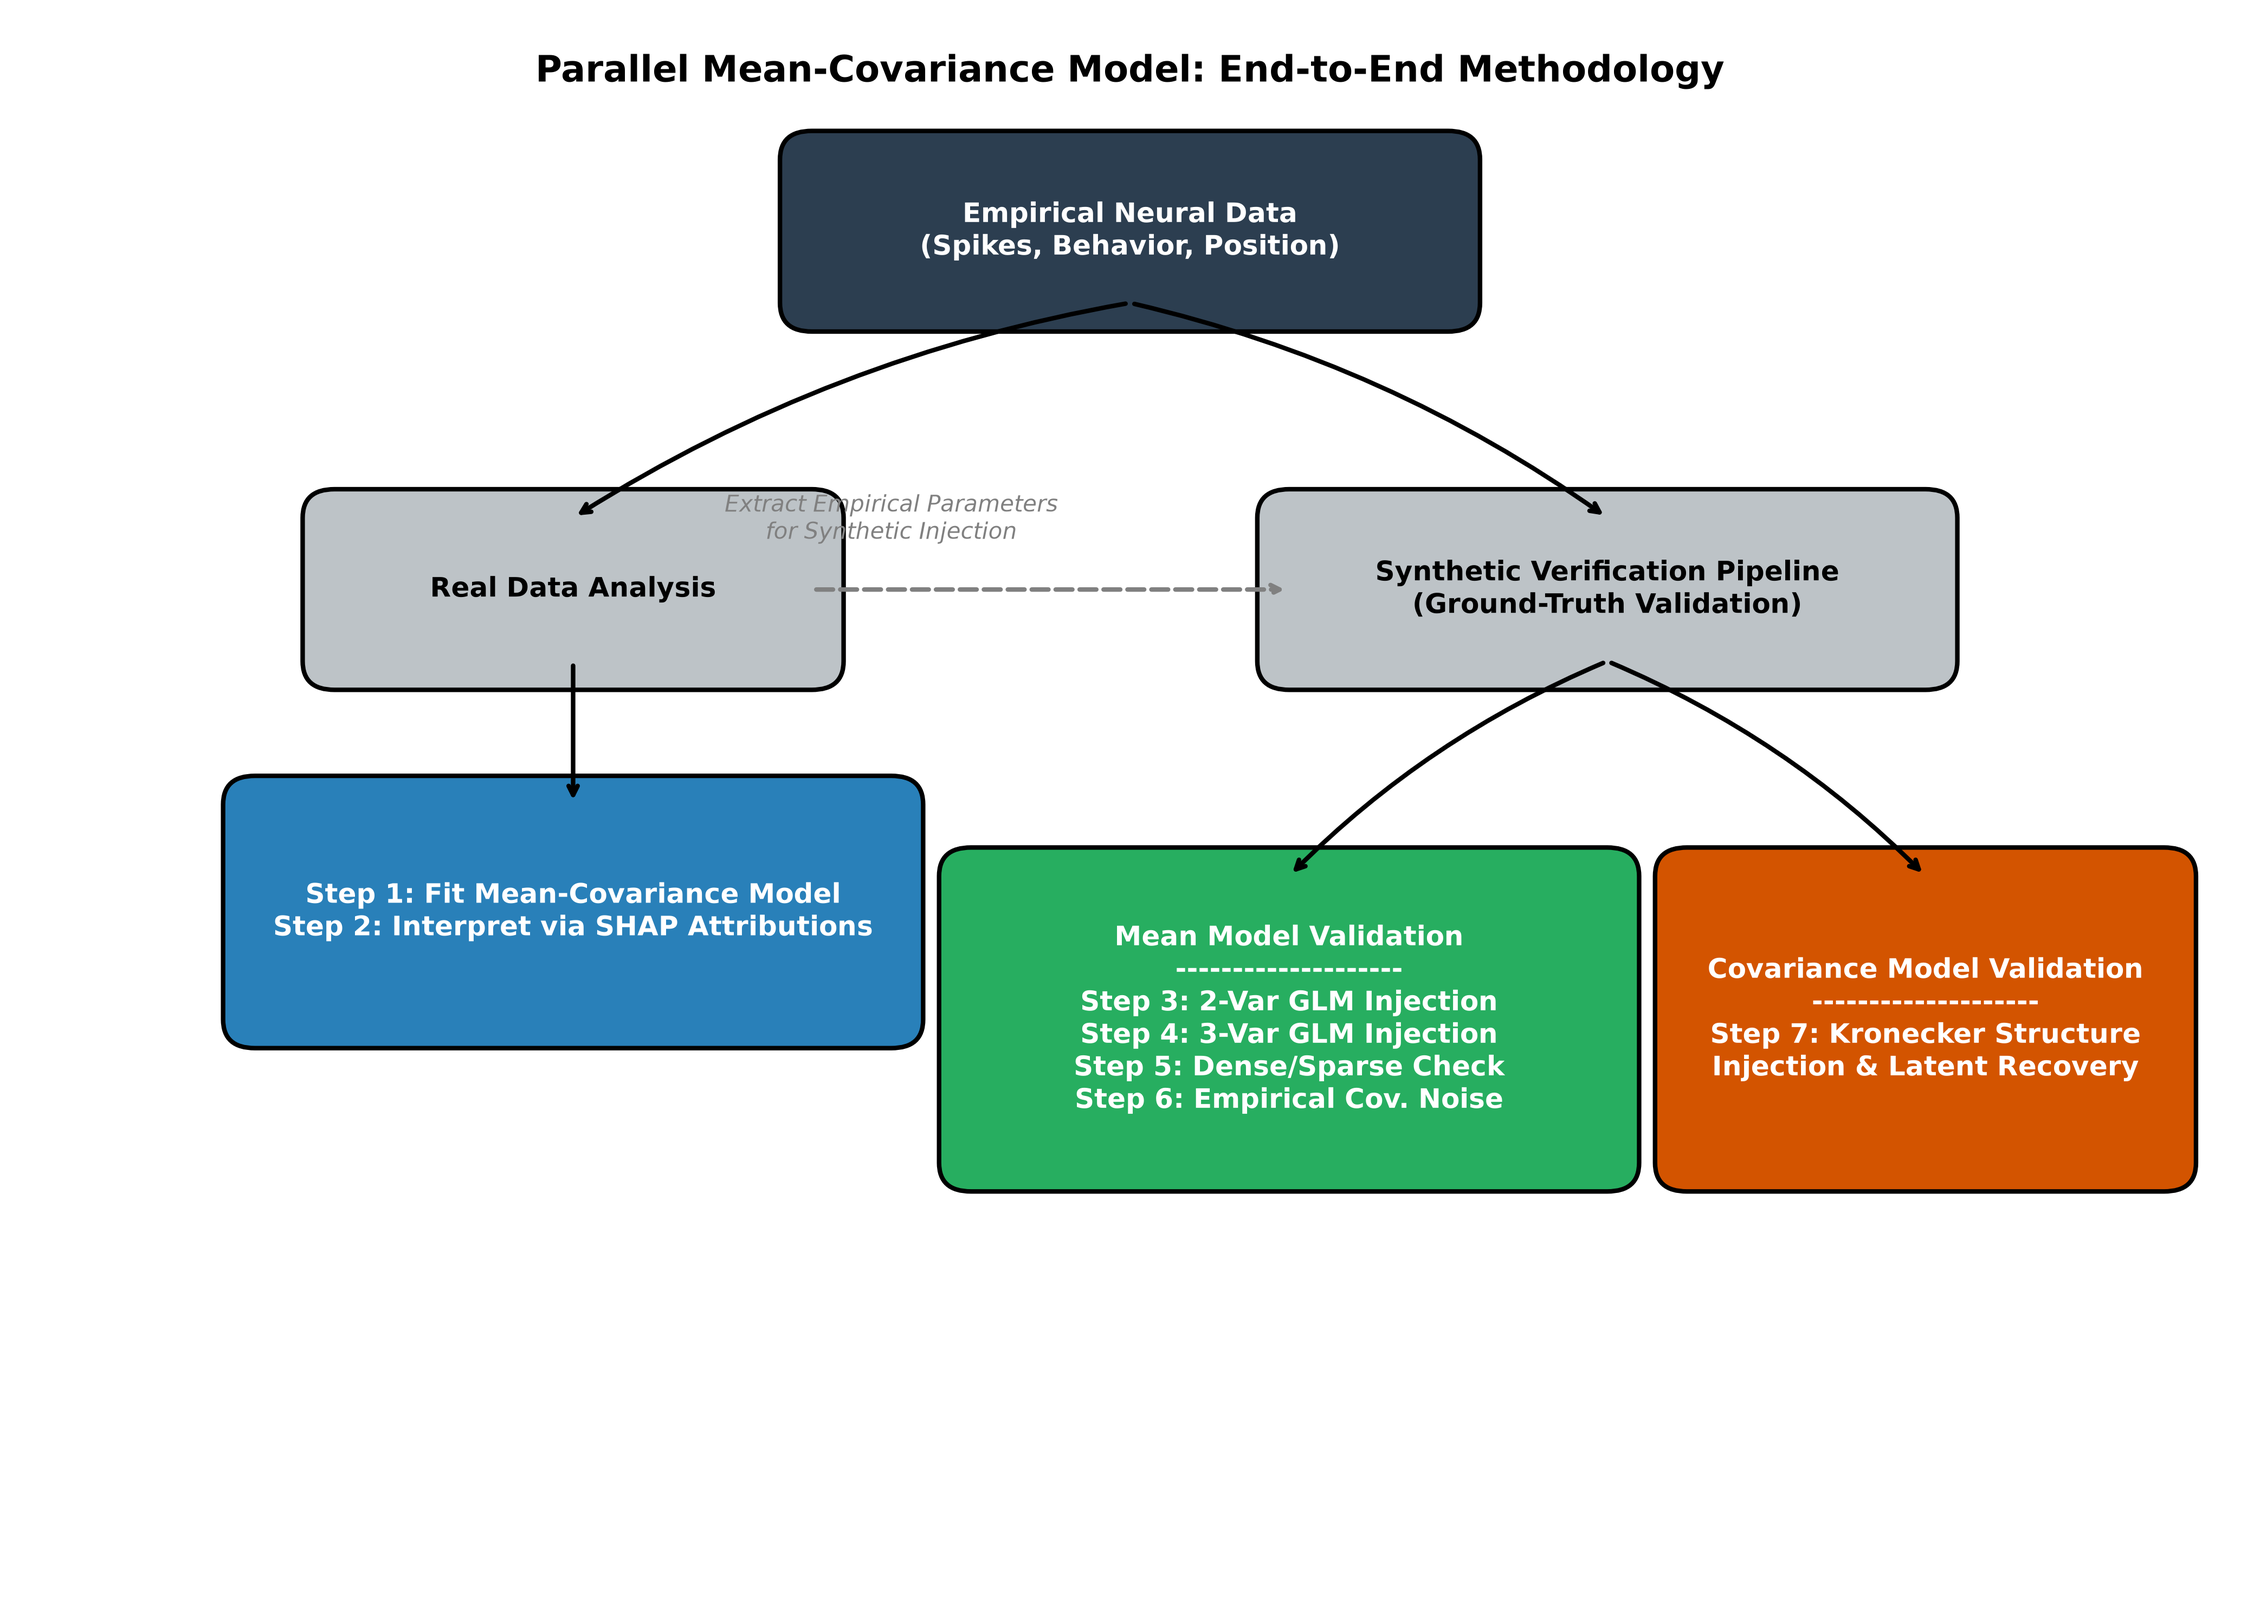
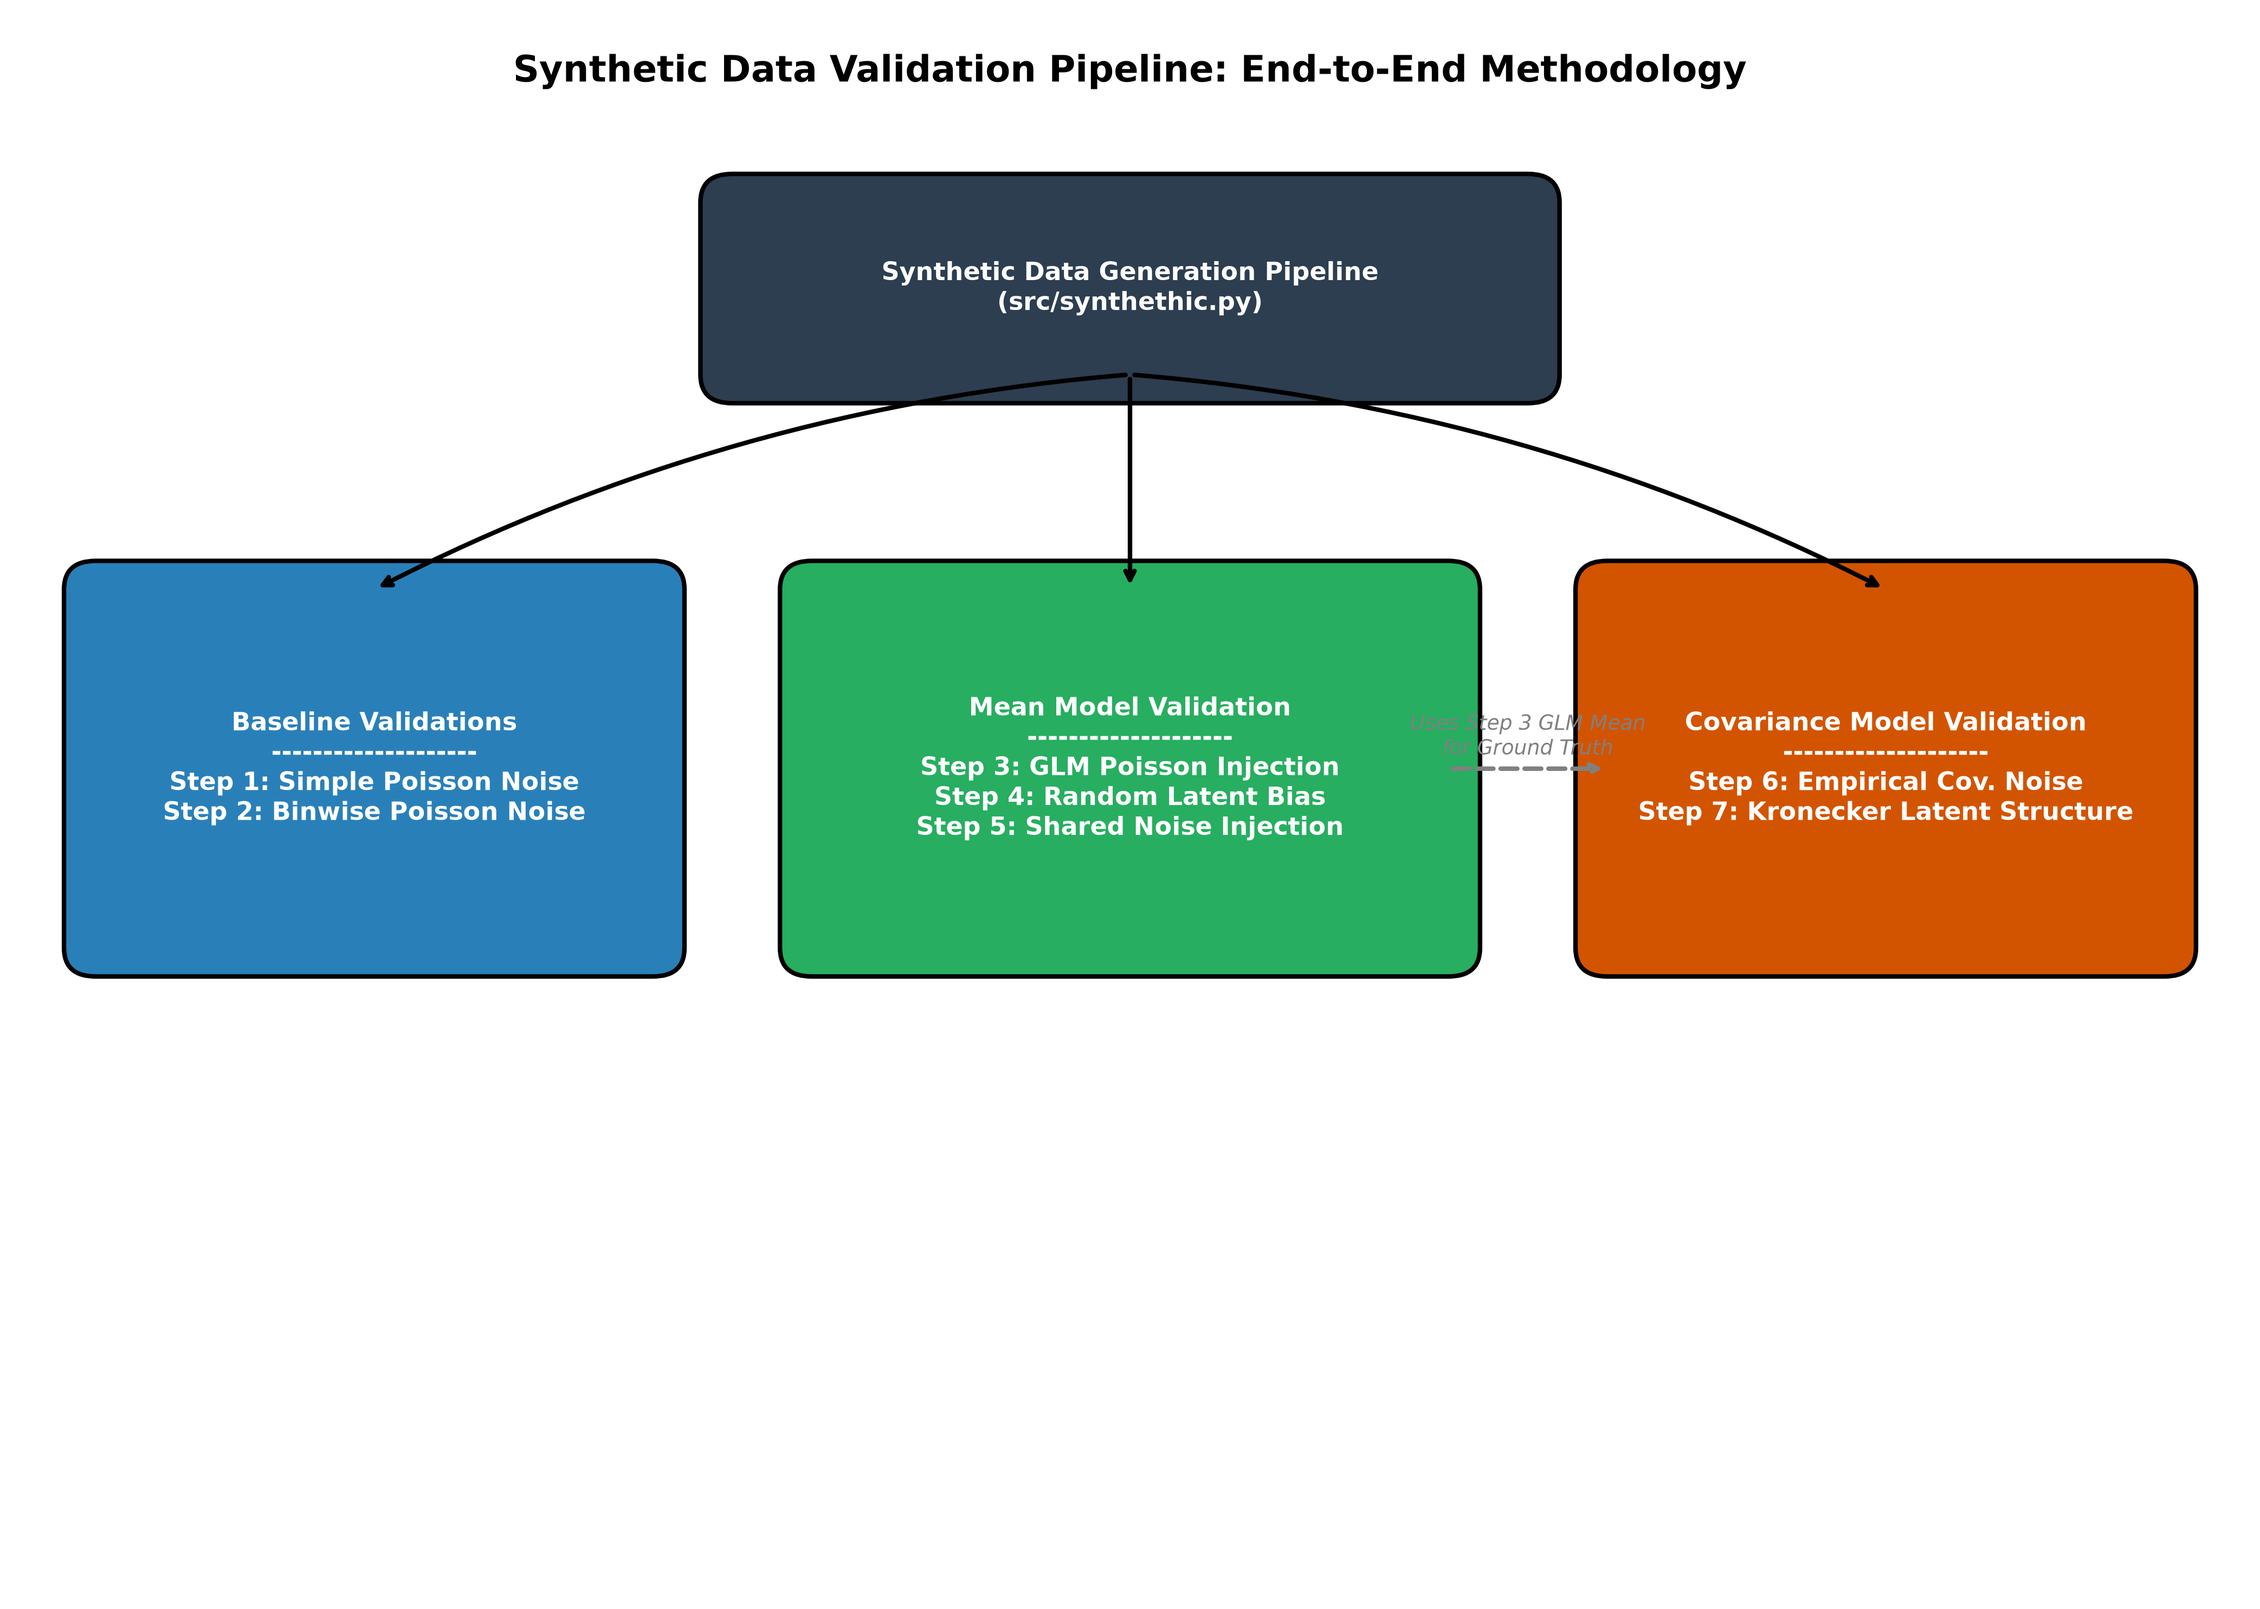
Update methodology diagram, README synthetic descriptions, and Step 7 Covariance comparison

diff --git a/README.md b/README.md
@@ -42,31 +42,42 @@ Latent loadings are initialized near zero so the model starts close to an identi
 
 ---
 
-## Synthetic Data Verification
+## Synthetic Data Verification (src/synthethic.py)
 
-To systematically validate our model's capacity to identify true underlying generative structures, we execute a rigorous synthetic data validation pipeline. The synthetic simulations verify that both the mean model (via SHAP attribution) and the latent covariance model can successfully isolate known ground-truth mechanisms injected into the data.
+To systematically validate our model's capacity to identify true underlying generative structures, we execute a rigorous synthetic data validation pipeline. The entire pipeline of ground-truth testing (Steps 1 through 7) is procedurally generated using dedicated functions in `src/synthethic.py`. 
 
-### Step 6: Mean Model Validation with Ground-Truth Effects
-In this step, we synthesize spike data by retaining the complex empirical residual covariance structure but replacing the conditional mean with a strictly controlled, additive ground-truth GLM. 
+The synthetic simulations verify that both the mean model (via SHAP attribution) and the latent covariance model can successfully isolate known mechanisms injected into the data. The steps are categorized as follows:
+- **Baseline Validations (Steps 1 & 2):** Simple Poisson and binwise Poisson noise generation to verify basic model convergence.
+- **Mean Model Validation (Steps 3, 4, 5):** We inject perfectly known additive GLM effects for specific task variables (like reward or time-since-last-press) and incrementally introduce complex noise (random latent bias, shared noise). We then use SHAP to ensure the model perfectly recovers the ground-truth coefficients without hallucinating spurious dependencies.
+- **Covariance Model Validation (Steps 6 & 7):** We test the model's ability to recover complex latent structures.
 
-By running our full Mean-Covariance model and subsequent SHAP attribution pipeline on this synthetic data, we can directly compare the recovered variable selectivities (e.g., reward or time-since-last-press) against the known injected GLM coefficients. This confirms that the nonlinear Transformer mean-model and our SHAP permutation framework accurately isolate true task-variable dependencies without confounding them with the highly structured residual noise.
+### Step 6: Empirical Covariance Injection (generate_step6_data)
+In Step 6, we stress-test both the mean and covariance components by generating data with a known mean but fully realistic, complex noise. Specifically, `generate_step6_data` takes the strictly controlled GLM mean trajectory $\hat{\lambda}$ generated in Step 3, and adds the raw, unstructured empirical residuals extracted from fitting the baseline model to real data.
+
+By running our full Mean-Covariance model on this synthetic data, we confirm that the nonlinear Transformer mean-model and our SHAP permutation framework accurately isolate the true task-variable dependencies, while the covariance model simultaneously adapts to reconstruct the highly structured empirical noise.
 
 <p align="center">
   <img src="assets/step6.png" alt="Step 6 Synthetic Covariance Recovery" width="800">
 </p>
 
-**FIGURE 2.** *Fitted shared covariance-model parameters extracted from Step 6 synthetic data.*
+**FIGURE 2.** *Fitted shared covariance-model parameters extracted from Step 6 synthetic data, where the model successfully isolates the known GLM mean from the injected empirical covariance structure.*
 
-### Step 7: Covariance Model Validation with Ground-Truth Structure
-In this step, we focus on the latent covariance architecture. We generate synthetic spikes using the empirical mean but replacing the residuals with a perfectly known, low-rank Kronecker-structured covariance matrix (a tensor product of independent spatial/unit and temporal/bin covariance matrices).
+### Step 7: Kronecker Structure Recovery (generate_step7_kronecker_poisson)
+In Step 7, we focus strictly on validating the latent covariance architecture. `generate_step7_kronecker_poisson` generates synthetic spikes using the empirical mean, but replaces the residuals with a perfectly known, low-rank Kronecker-structured covariance matrix (a tensor product of independent spatial/unit loadings and temporal/bin Gaussian process kernels).
 
-We then fit our shared latent covariance model to this synthetic data. The objective is to verify that the model correctly converges to the underlying Kronecker structure, capturing the true latent length scales and temporal loadings without overfitting or hallucinating spurious correlations.
+We then fit our shared latent covariance model to this synthetic data. The objective is to verify that the model correctly converges to the underlying Kronecker structure, capturing the true latent length scales and temporal loadings without overfitting.
+
+<p align="center">
+  <img src="assets/step7_cov.png" alt="Step 7 Ground Truth vs Predicted Covariance" width="800">
+</p>
+
+**FIGURE 3.** *Comparison of the injected ground-truth Kronecker noise covariance (Left) against the model's reconstructed covariance matrix after training (Right) for a specific time bin (Bin 13). The model accurately recovers the complex block-diagonal correlation structure injected during synthetic generation.*
 
 <p align="center">
   <img src="assets/step7.png" alt="Step 7 Synthetic Covariance Recovery" width="800">
 </p>
 
-**FIGURE 3.** *Fitted shared covariance-model parameters extracted from Step 7 synthetic data, demonstrating the model's ability to recover a known, injected Kronecker-structured ground-truth covariance.*
+**FIGURE 4.** *Fitted shared covariance-model parameters extracted from Step 7 synthetic data, demonstrating the model's ability to recover the known, injected Kronecker-structured ground-truth covariance.*
 
 ---
 
